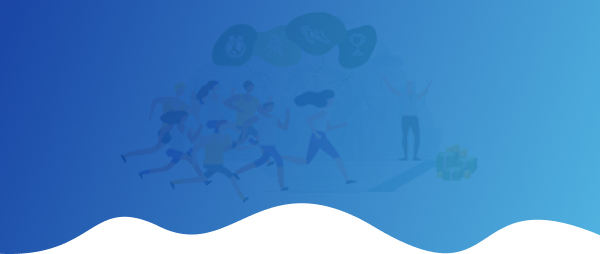
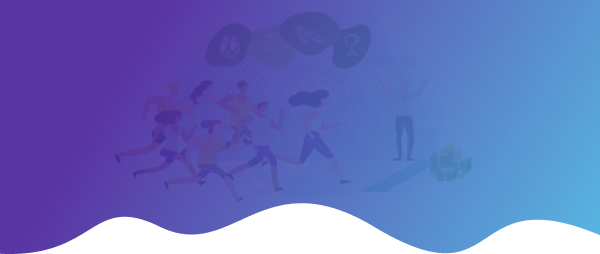
update design

diff --git a/index.html b/index.html
@@ -44,8 +44,13 @@
 			.md-p{
 				padding: 24px 0 !important;
 			}
-			.ul-md{
-				width: 60% !important;
+			.ul-list-style{
+				display: grid;
+    			justify-items: center;
+			}
+			.ul-list-style td{
+				width: 100% !important;
+				margin: auto;
 			}
 		}
 
@@ -63,11 +68,11 @@
             <tbody>
                 <tr>
                     <td class="esd-email-paddings" valign="top">
-                        <table class="esd-header-popover es-header" cellspacing="0" cellpadding="0" align="center" background="headerbg.jpg" width="600" height="254" style="background-repeat: no-repeat;background-position: center; padding: 43px 0 105px 0;">
+                        <table class="esd-header-popover es-header" cellspacing="0" cellpadding="0" align="center" background="https://i.ibb.co/0QNbk7c/headerbg.jpg" width="600" height="254" style="background-repeat: no-repeat;background-position: center; padding: 43px 0 105px 0;">
                             <tbody>
                                 <tr>
                                     <td class="esd-stripe" align="center" style="padding-bottom: 32px;">
-										<img src="logo.png" alt="">
+										<img src="https://i.ibb.co/ysf4wkT/logo.png" alt="">
                                     </td>
                                 </tr>
 								<tr>
@@ -87,10 +92,10 @@
 															<tbody>
 																<tr>
 																	<td class="es-p20t es-p20r es-p20l esd-structure" width="50%" align="right" style="padding-right: 20px;">
-																		<img src="brand1.png" alt="">
+																		<img src="https://i.ibb.co/NYrxcrr/brand1.png" alt="">
 																	</td>
 																	<td class="es-p20t es-p20r es-p20l esd-structure" width="50%" style="padding-left: 20px;">
-																		<img src="brand2.png" alt="">
+																		<img src="https://i.ibb.co/xHQ6h8L/brand2.png" alt="">
 																	</td>
 																</tr>
 															</tbody>
@@ -115,26 +120,8 @@
 									</td>
 								</tr>
 								<tr>
-									<td class="esd-stripe" align="center">
-										<table class="es-content-body md-p"  cellspacing="0" cellpadding="0" align="center" style="width: 100%; margin-top: 24px; padding: 24px;">
-											<tbody>
-												<tr>
-													<td class="es-p20t es-p20r es-p20l esd-structure" style="font-size: 18px; color: #00339C; font-weight: 700;">
-														What is Gamification?
-													</td>
-												</tr>
-												<tr>
-													<td class="es-p20t es-p20r es-p20l esd-structure" style="font-size: 16px; color: #0C1A3F; line-height: 20px; padding-top: 10px;">
-														Gamification is defined as “the use of game-mechanics in a non-game setting”…YAWN. How can anything with the word “game” in it sound so boring? Here’s a better definition: 
-													</td>
-												</tr>
-											</tbody>
-										</table>
-									</td>
-								</tr>
-								<tr>
-									<td class="esd-stripe" align="center">
-										<table class="es-content-body"  cellspacing="0" cellpadding="0" align="center" bgcolor="#D3EFF9" style="width: 100%; max-width: 447px; padding: 10px; border-radius: 8px;">
+									<td class="esd-stripe" align="center" style="padding-top: 20px;">
+										<table class="es-content-body"  cellspacing="0" cellpadding="0" align="center" style="width: 100%; max-width: 447px; padding: 10px; border-radius: 8px;">
 											<tbody>
 												<tr>
 													<td class="es-p20t es-p20r es-p20l esd-structure" style="font-size: 20px; color: #00339C; font-weight: 600; font-style: italic;" align="center">
@@ -147,7 +134,7 @@
 								</tr>
 								<tr>
 									<td class="esd-stripe" align="center">
-										<table class="es-content-body md-p"  cellspacing="0" cellpadding="0" align="center" style="width: 100%; padding: 24px;">
+										<table class="es-content-body md-p"  cellspacing="0" cellpadding="0" align="center" style="max-width: 500px; padding: 24px;">
 											<tbody>
 												<tr>
 													<td class="es-p20t es-p20r es-p20l esd-structure" style="font-size: 16px; color: #0C1A3F; line-height: 20px;">
@@ -160,7 +147,7 @@
 								</tr>
 								<tr>
 									<td class="esd-stripe" align="center">
-										<table class="es-content-body md-p"  cellspacing="0" cellpadding="0" align="center" style="width: 100%; margin-top: 24px; padding: 24px;">
+										<table class="es-content-body md-p"  cellspacing="0" cellpadding="0" align="center" style="width: 100%; padding: 24px;">
 											<tbody>
 												<tr>
 													<td class="es-p20t es-p20r es-p20l esd-structure" style="font-size: 18px; color: #00339C; font-weight: 700;">
@@ -177,25 +164,26 @@
 									</td>
 								</tr>
 								<tr>
-									<td class="esd-stripe" align="center">
-										<table class="es-content-body md-p"  cellspacing="0" cellpadding="0" align="center" style="width: 100%; padding: 0 24px;">
+									<td class="esd-stripe md-p" align="center" style="padding: 0 24px;">
+										<table class="es-content-body"  cellspacing="0" cellpadding="0" align="center" style="width: 100%; padding:10px; border-radius: 8px;" bgcolor="#F3ECFF">
 											<tbody>
-												<tr>
-													<td class="es-p20t es-p20r es-p20l esd-structure ul-md" style="padding-right: 10px;width: 50%;">
-														<ul style="font-size: 20px; font-weight: 600; color: #00339C;padding: 10px 10px 10px 35px; margin: 0; background: #D7F1FA; border-radius: 8px;">
+												<tr class="ul-list-style">
+													<td class="es-p20t es-p20r es-p20l esd-structure" style="padding-right: 5px;width: 50%;">
+														<ul style="font-size: 20px; font-weight: 600; color: #fff;padding: 10px 10px 10px 35px; margin: 0; background: #471E98; border-radius: 8px;">
 															<li>Sales Competitions</li>
 															<li>Points</li>
 															<li>Personal Records</li>
 															<li>Prize Wheels</li>
 														</ul>
-													</td>
-													<td class="es-p20t es-p20r es-p20l esd-structure" style="padding-left: 10px">
-														<ul style="font-size: 20px; font-weight: 600; color: #00339C;padding: 10px 10px 10px 35px;  margin: 0; background: #D7F1FA;border-radius: 8px;">
+														<ul style="font-size: 20px; font-weight: 600; color: #fff;padding: 10px 10px 10px 35px;  margin: 10px 0 0; background: #471E98; border-radius: 8px;">
 															<li>Milestones</li>
 															<li>Goals</li>
 															<li>Streaks</li>
 															<li>Challenges</li>
 														</ul>
+													</td>
+													<td class="es-p20t es-p20r es-p20l esd-structure" style="padding-left: 5px; text-align: center; padding-top: 5px;">
+														<img style="max-width: 252px;" src="https://i.ibb.co/02V6MK6/wheel.png" alt="">
 													</td>
 												</tr>
 											</tbody>
@@ -217,7 +205,7 @@
 								</tr>
 								<tr>
 									<td class="esd-stripe" align="center">
-										<table class="es-content-body md-p"  cellspacing="0" cellpadding="0" align="center" style="width: 100%; margin-top: 24px; padding: 24px;">
+										<table class="es-content-body md-p"  cellspacing="0" cellpadding="0" align="center" style="width: 100%; padding: 14px 24px 24px;">
 											<tbody>
 												<tr>
 													<td class="es-p20t es-p20r es-p20l esd-structure" style="font-size: 18px; color: #00339C; font-weight: 700;">
@@ -235,7 +223,7 @@
 								</tr>
 								<tr>
 									<td class="esd-stripe" align="center">
-										<table class="es-content-body md-p"  cellspacing="0" cellpadding="0" align="center" style="width: 100%; margin-top: 24px; padding: 24px;">
+										<table class="es-content-body md-p"  cellspacing="0" cellpadding="0" align="center" style="width: 100%; padding: 14px 24px 24px;">
 											<tbody>
 												<tr>
 													<td class="es-p20t es-p20r es-p20l esd-structure" style="font-size: 18px; color: #00339C; font-weight: 700;">
@@ -253,7 +241,7 @@
 								</tr>
 								<tr>
 									<td class="esd-stripe" align="center">
-										<table class="es-content-body"  cellspacing="0" cellpadding="0" align="center" bgcolor="#D3EFF9" style="width: 100%; max-width: 447px; padding: 10px; border-radius: 8px;">
+										<table class="es-content-body"  cellspacing="0" cellpadding="0" align="center" bgcolor="#F4EEFF" style="width: 100%; max-width: 447px; padding: 10px; border-radius: 8px;">
 											<tbody>
 												<tr>
 													<td class="es-p20t es-p20r es-p20l esd-structure" style="font-size: 20px; color: #00339C; font-weight: 600; font-style: italic;" align="center">
@@ -266,7 +254,7 @@
 								</tr>
 								<tr>
 									<td class="esd-stripe" align="center">
-										<table class="es-content-body md-p"  cellspacing="0" cellpadding="0" align="center" style="width: 100%; margin-top: 24px; padding: 24px;">
+										<table class="es-content-body md-p"  cellspacing="0" cellpadding="0" align="center" style="width: 100%; padding: 24px;">
 											<tbody>
 												<tr>
 													<td class="es-p20t es-p20r es-p20l esd-structure" style="font-size: 18px; color: #00339C; font-weight: 700;">
@@ -283,8 +271,8 @@
 									</td>
 								</tr>
 								<tr>
-									<td class="esd-stripe" align="center" style="padding-bottom: 58px;">
-										<table class="es-content-body"  cellspacing="0" cellpadding="0" align="center" bgcolor="#D3EFF9" style="width: 100%; margin-top: 25px; padding: 32px 24px;">
+									<td class="esd-stripe" align="center" style="padding-bottom: 40px;">
+										<table class="es-content-body"  cellspacing="0" cellpadding="0" align="center" bgcolor="#F4EEFF" style="width: 100%; margin-top: 10px; padding: 32px 24px; border-radius: 8px;">
 											<tbody>
 												<tr>
 													<td class="es-p20t es-p20r es-p20l esd-structure" style="font-size: 18px; color: #00339C; font-weight: 700;">
@@ -297,7 +285,7 @@
 													</td>
 												</tr>
 												<tr>
-													<td class="es-p20t es-p20r es-p20l esd-structure" style="font-size: 18px; color: #00339C; font-weight: 700; padding-top: 35px;">
+													<td class="es-p20t es-p20r es-p20l esd-structure" style="font-size: 18px; color: #00339C; font-weight: 700; padding-top: 25px;">
 														When are prizes paid out?
 													</td>
 												</tr>
@@ -307,7 +295,7 @@
 													</td>
 												</tr>
 												<tr>
-													<td class="es-p20t es-p20r es-p20l esd-structure" style="font-size: 18px; color: #00339C; font-weight: 700; padding-top: 35px;">
+													<td class="es-p20t es-p20r es-p20l esd-structure" style="font-size: 18px; color: #00339C; font-weight: 700; padding-top: 25px;">
 														Where can I find more details about this pilot?
 													</td>
 												</tr>
@@ -326,7 +314,7 @@
                             <tbody>
                                 <tr>
                                     <td class="esd-stripe" align="center">
-                                        <table class="es-footer-body" width="600" cellspacing="0" cellpadding="0"  align="center" bgcolor="#00339C"  style="background: linear-gradient(101.87deg, #00339C 6.19%, #45BAE5 112.73%);">
+                                        <table class="es-footer-body" width="600" cellspacing="0" cellpadding="0"  align="center" bgcolor="#471E98"  style="background: linear-gradient(104deg, #471E98 22.06%, #45BAE5 106.05%);">
                                             <tbody>
                                                 <tr>
                                                     <td class="esd-structure es-p20t es-p20b es-p20r es-p20l" align="center" style="font-size: 16px;
